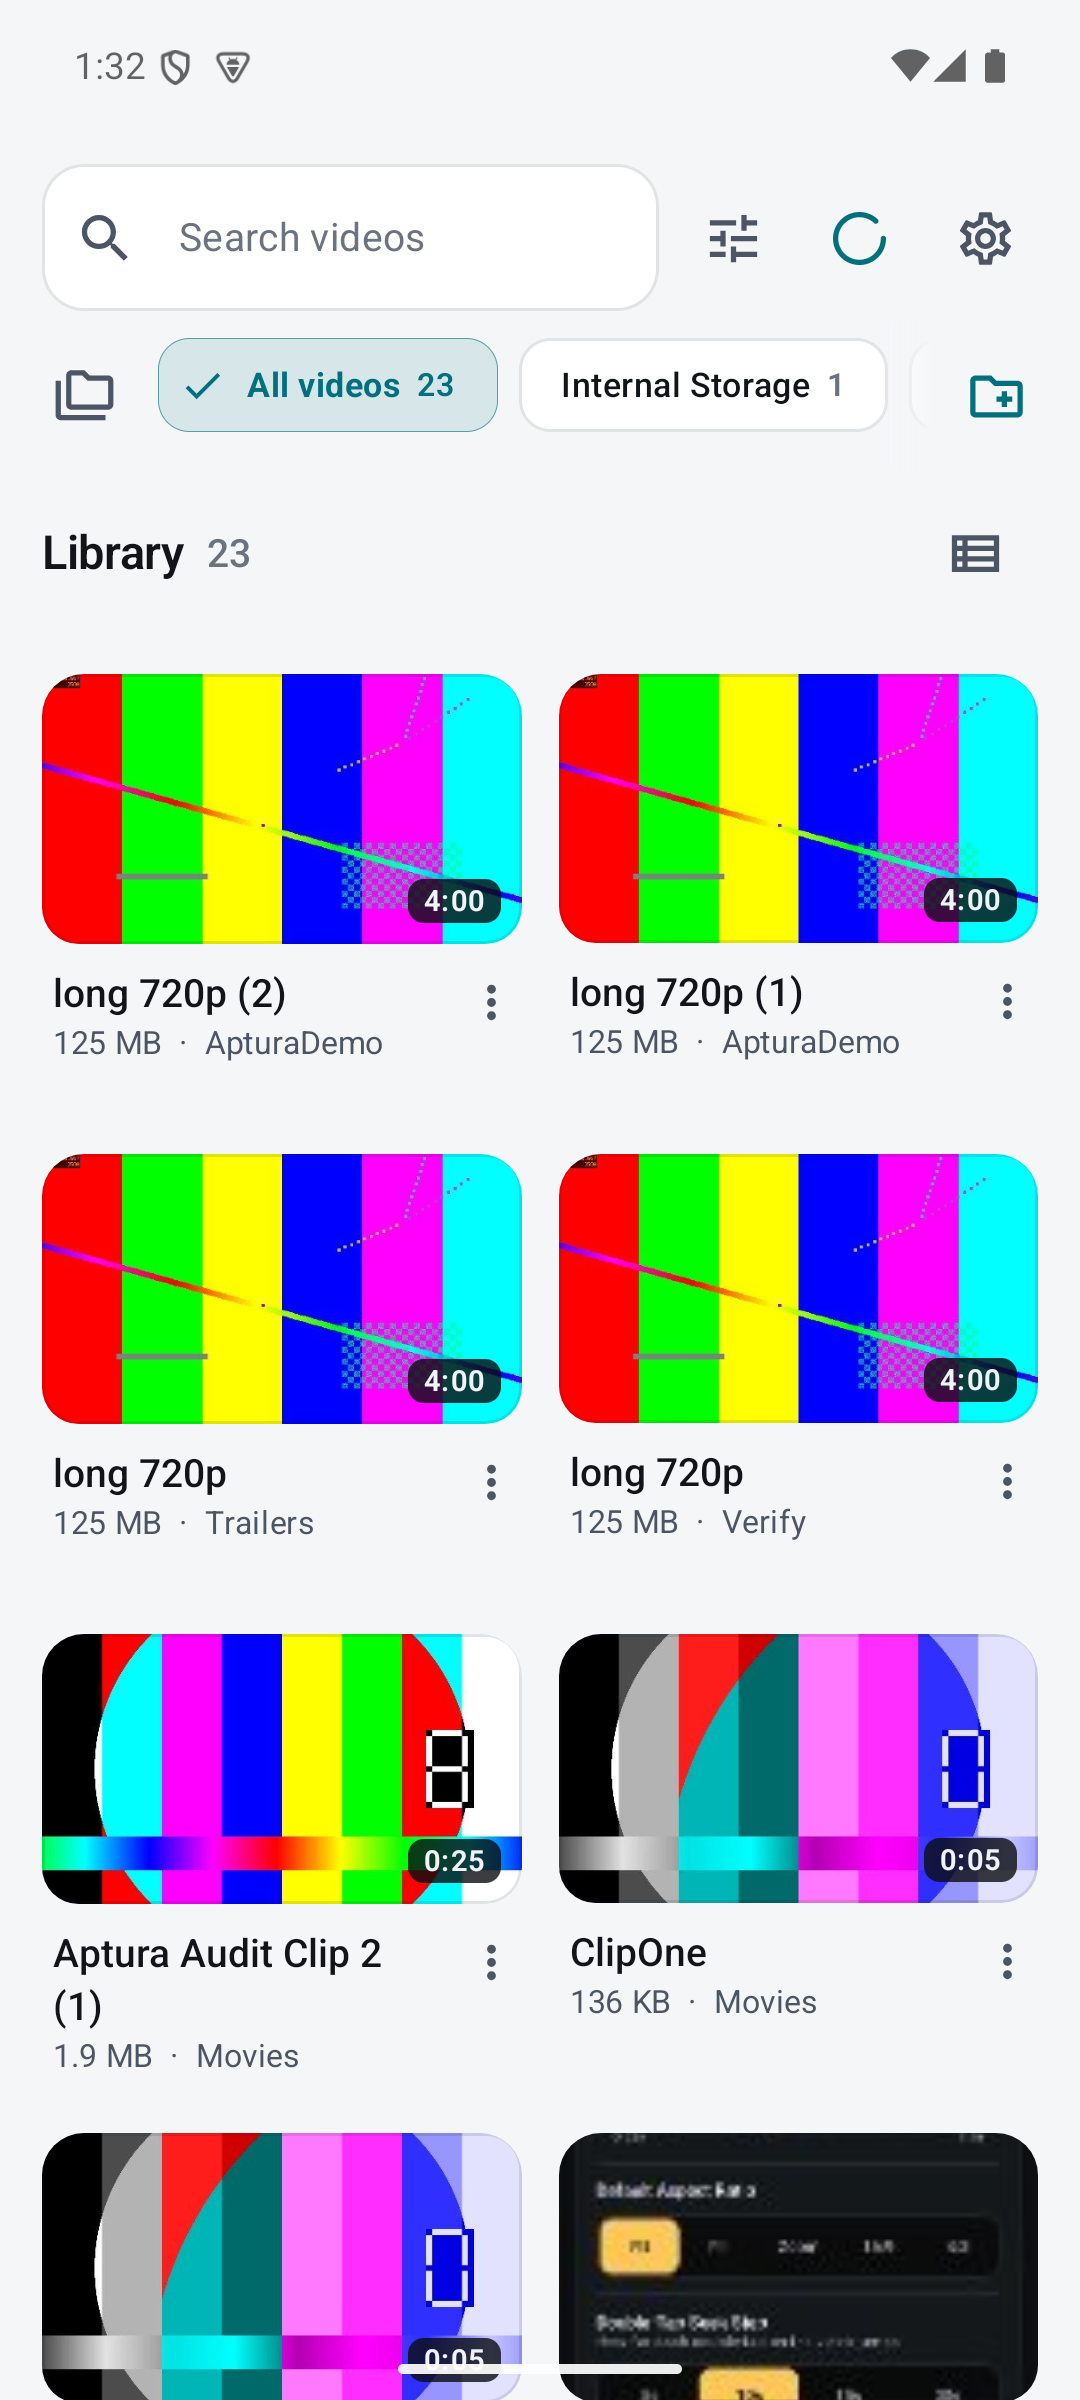
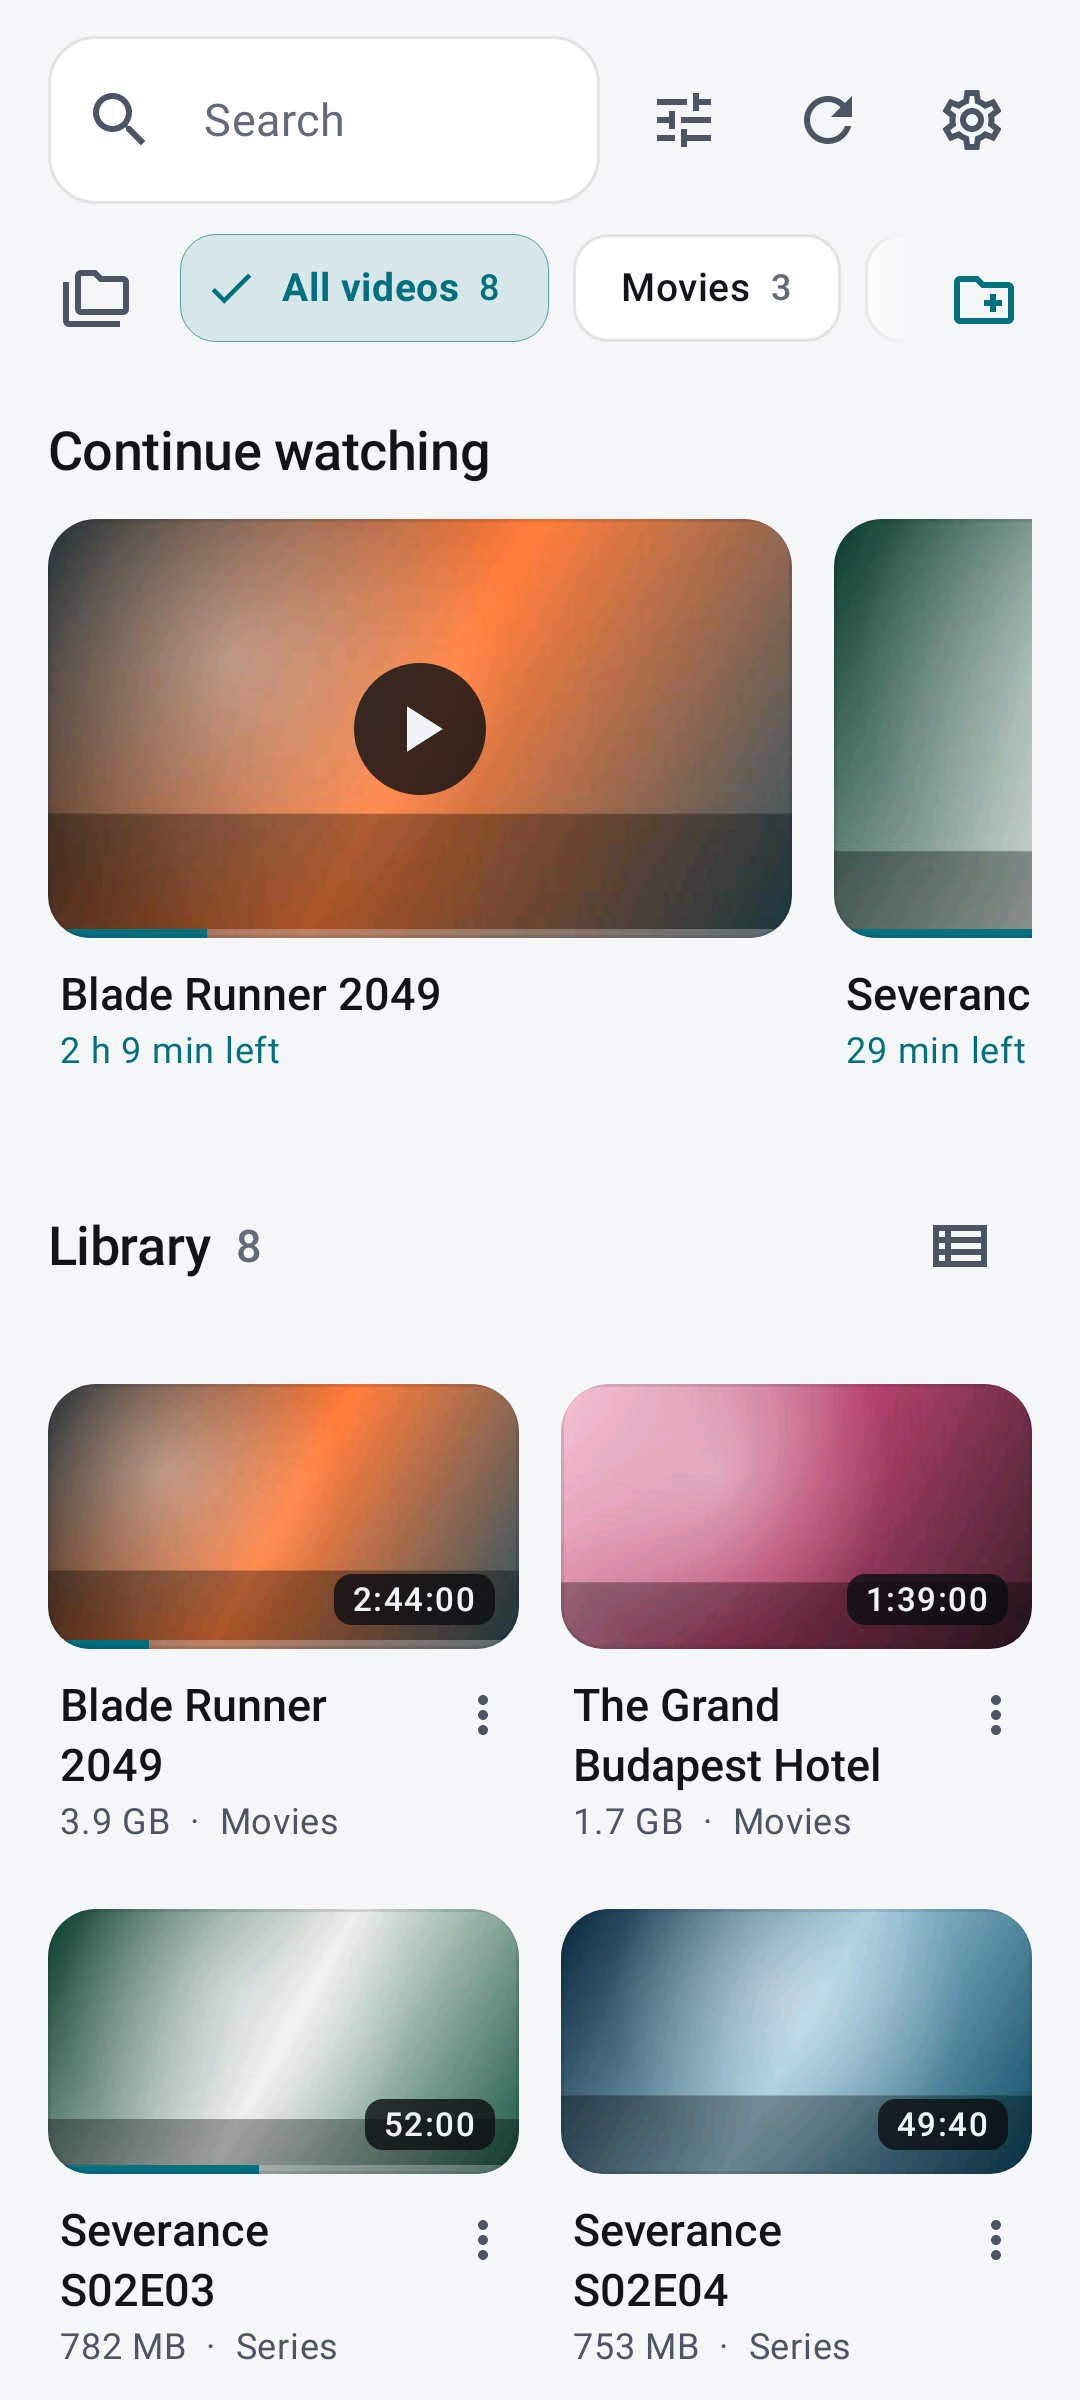
Refresh Play Store and documentation screenshots (PROD-02)
Assisted-by: Antigravity (Gemini)

Refs: #152

diff --git a/app/src/test/java/org/aptura/player/ui/visual/PlayStoreGalleryTest.kt b/app/src/test/java/org/aptura/player/ui/visual/PlayStoreGalleryTest.kt
@@ -1,0 +1,166 @@
+package org.aptura.player.ui.visual
+
+import android.os.SystemClock
+import org.aptura.player.data.settings.ApturaSettings
+import org.aptura.player.domain.model.AbRepeatState
+import org.aptura.player.domain.model.AudioEnhancementState
+import org.aptura.player.domain.model.Bookmark
+import org.aptura.player.domain.model.EqualizerBand
+import org.aptura.player.domain.repository.LibraryStatistics
+import org.aptura.player.theme.AccentColor
+import org.aptura.player.theme.ThemeMode
+import org.aptura.player.ui.library.MediaLibraryScreen
+import org.aptura.player.ui.onboarding.OnboardingScreen
+import org.aptura.player.ui.player.PlayerScreen
+import org.aptura.player.ui.player.PlayerSheet
+import org.aptura.player.ui.player.PlayerUiState
+import org.aptura.player.ui.player.TrackInfo
+import org.aptura.player.ui.settings.SettingsScreen
+import org.junit.Test
+import org.junit.runner.RunWith
+import org.robolectric.RobolectricTestRunner
+import org.robolectric.annotation.Config
+import org.robolectric.annotation.GraphicsMode
+
+private const val PLAY_STORE_PHONE = "w360dp-h800dp-xxhdpi"
+
+@RunWith(RobolectricTestRunner::class)
+@GraphicsMode(GraphicsMode.Mode.NATIVE)
+@Config(sdk = [34], qualifiers = PLAY_STORE_PHONE)
+class PlayStoreGalleryTest : GalleryBase() {
+
+    private val playerBase = PlayerUiState(
+        videoUri = "content://media/external/video/media/1",
+        videoTitle = "Blade Runner 2049",
+        durationMs = 9_840_000L,
+        currentPositionMs = 2_100_000L,
+        bufferedPositionMs = 2_600_000L,
+        isPlaying = true,
+        isControlsVisible = true,
+        hasNext = true,
+        hasPrevious = true,
+        audioTracks = listOf(
+            TrackInfo("a1", 0, "English · 5.1 · E-AC3", "en", isSelected = true),
+            TrackInfo("a2", 1, "English · Commentary · AAC", "en"),
+            TrackInfo("a3", 2, "Français · 5.1 · AC3", "fr")
+        ),
+        subtitleTracks = listOf(
+            TrackInfo("s1", 0, "English · SDH", "en", isSelected = true),
+            TrackInfo("s2", 1, "Español", "es"),
+            TrackInfo("s3", 2, "Blade.Runner.2049.en.srt", "en", isExternal = true)
+        ),
+        selectedAudioTrackIndex = 0,
+        selectedSubtitleTrackIndex = 0,
+        audioDelayMs = 150L,
+        subtitleDelayMs = -250L,
+        audioEnhancement = AudioEnhancementState(
+            enabled = true,
+            bassBoostPercent = 30,
+            bands = listOf(60, 230, 910, 3600, 14000).mapIndexed { i, f -> EqualizerBand(i, f, listOf(300, 150, 0, -100, 200)[i]) }
+        ),
+        sleepTimerEndsAtElapsedRealtime = SystemClock.elapsedRealtime() + 1_200_000L,
+        abRepeat = AbRepeatState(1_800_000L, 2_400_000L, true),
+        bookmarks = listOf(Bookmark(1L, "content://media/external/video/media/1", 1_250_000L, "Opening shot")),
+        nextItemTitle = "Arrival",
+        nextItemDurationMs = 6_960_000L,
+        nextItemUri = "content://media/external/video/media/2",
+        queueItems = emptyList(),
+        currentQueueIndex = 0
+    )
+
+    private fun renderPlayer(state: PlayerUiState, accent: AccentColor = AccentColor.CYAN) = themed(ThemeMode.DARK, accent) {
+        PlayerScreen(
+            uiState = state,
+            player = null,
+            onBackClick = {},
+            onPlayPauseClick = {},
+            onSeekRelative = {},
+            onScrubStart = {},
+            onScrubMove = {},
+            onScrubEnd = {},
+            onControlsVisibilityToggle = {},
+            onLockToggle = {},
+            onSpeedSelected = {},
+            onResizeModeToggle = {},
+            onSpeedSheetVisible = {},
+            onAudioSheetVisible = {},
+            onSubtitleSheetVisible = {},
+            onAudioTrackSelected = {},
+            onSubtitleTrackSelected = {},
+            onVolumePercentChanged = {},
+            onBrightnessPercentChanged = {},
+            onRetryPlayback = {}
+        )
+    }
+
+    @Test
+    fun store01LibraryHome() {
+        themed(ThemeMode.LIGHT) {
+            MediaLibraryScreen(
+                uiState = librarySuccess(),
+                onVideoClick = { _, _ -> },
+                onSearchQueryChanged = {},
+                onFolderSelected = {},
+                onSortOrderChanged = {},
+                onRefresh = {}
+            )
+        }
+        shoot("play_store_01_library_home")
+    }
+
+    @Test
+    fun store02PlayerPlayback() {
+        renderPlayer(playerBase.copy(queueItems = sampleItems.take(5)), AccentColor.GOLD)
+        shoot("play_store_02_player_playback")
+    }
+
+    @Test
+    fun store03AudioSyncSheet() {
+        renderPlayer(playerBase.copy(queueItems = sampleItems.take(5), activeSheet = PlayerSheet.Audio))
+        shoot("play_store_03_audio_sync_sheet")
+    }
+
+    @Test
+    fun store04DarkGoldSettings() {
+        themed(ThemeMode.DARK, AccentColor.GOLD) {
+            SettingsScreen(
+                settings = ApturaSettings(
+                    themeMode = ThemeMode.DARK,
+                    accentColor = AccentColor.GOLD,
+                    persistedSafFolders = setOf("content://com.android.externalstorage.documents/tree/primary%3AMovies")
+                ),
+                libraryStats = LibraryStatistics(totalVideos = 8, totalDurationMs = 33_802_000, totalSizeBytes = 14_400_000_000),
+                onBackClick = {},
+                onUpdateSpeed = {},
+                onUpdateResizeMode = {},
+                onUpdateSeekDelta = {},
+                onUpdateBackgroundAudio = {},
+                onUpdateAutoAdvanceCountdown = {},
+                onRescanClick = {},
+                onReplayOnboardingClick = {},
+                hiddenVideoCount = 2,
+                missingVideoCount = 1
+            )
+        }
+        shoot("play_store_04_dark_gold_settings")
+    }
+
+    @Test
+    fun store05SubtitlesSheet() {
+        renderPlayer(playerBase.copy(queueItems = sampleItems.take(5), activeSheet = PlayerSheet.Subtitle))
+        shoot("play_store_05_subtitles_sheet")
+    }
+
+    @Test
+    fun store06PrivacyOnboarding() {
+        themed(ThemeMode.LIGHT) {
+            OnboardingScreen(
+                onRequestPermissionClick = {},
+                onContinueWithoutPermissionClick = {},
+                hasStorageAccess = false,
+                animateDemos = false
+            )
+        }
+        shoot("play_store_06_privacy_onboarding")
+    }
+}

diff --git a/docs/audits/CURRENT_AUDIT.md b/docs/audits/CURRENT_AUDIT.md
@@ -57,6 +57,7 @@ What is still open after the work recorded in the Progress table, in one place. 
 | A11Y-05 | System caption preferences verification on physical device across diverse accessibility caption styles | A phone |
 | PROD-G12 | Subtitle character set encoding overrides on physical device across legacy non-UTF8 media files | A phone |
 | A11Y-02 | Hardware keyboard and D-pad remote pass on physical Android tablet / Chromebook | A tablet or Chromebook |
+| PROD-02 | Human visual review of refreshed Play Store phone/tablet screenshots before store submission | The owner |
 
 When a PR closes an open part, delete its line here in the same PR, and add a line for any part it leaves open.
 
@@ -127,6 +128,7 @@ When a PR closes an open part, delete its line here in the same PR, and add a li
 | QA-06 | Done in code and tests. Added `androidx.room:room-testing` (`testImplementation`), configured `debug` and `androidTest` schema assets directories in `app/build.gradle.kts` (so release builds remain clean while Robolectric `MigrationTestHelper` validates schemas on every run), and added `ApturaDatabaseSchemaValidationTest` validating committed schemas `5.json`, `6.json`, and `7.json` across `MIGRATION_5_6` (`decoderOverridden` backfill), `MIGRATION_6_7` (`index_media_items_uri`), chained `5 -> latest`, every `5..APTURA_DB_VERSION` schema upgrade via `MigrationTestHelper.runMigrationsAndValidate`, plus pre-schema-export `2 -> latest` SQL upgrade execution. `ApturaDatabaseMigrationTest` also asserts every schema version from 5 to `APTURA_DB_VERSION` is exported and committed. | This PR | `ApturaDatabaseSchemaValidationTest` (5 tests), `ApturaDatabaseMigrationTest` (2 tests), `ApturaDatabaseRealSqlTest`, and `DatabaseScaleTest`. |
 | DEV-01 | Done. Removed the `AarMetadata` check bypass from `app/build.gradle.kts` so `checkDebugAarMetadata` and `checkReleaseAarMetadata` run on every build. Updated `compileSdk` to `release(37) { minorApiLevel = 0 }` (targeting Android SDK Platform `37.0`), bumped `androidGradlePlugin` to `9.1.0` in `gradle/libs.versions.toml` (required by `androidx.compose.material3.adaptive:1.3.0`), and updated Gradle wrapper to `9.3.1` with verified SHA-256 checksum. | This PR | `checkDebugAarMetadata`, `checkReleaseAarMetadata`, and full `.\tools\gate.ps1` (unit tests, lint, release build + invariants) pass with AAR metadata checks enabled. |
 | ISSUE-016 | Done. Removed unused `deleteRemovedVideos(existingMediaStoreIds: List<Long>)` query from `MediaItemDao` and its fake implementation in `MediaRepositoryTest`. | This PR | `.\tools\gate.ps1` (full unit test suite, lint, release build + invariants). |
+| PROD-02 | Refreshed in repo, awaits owner visual sign-off. Replaced all 6 `distribution/play-store/phone-screenshots/` (`1080x2400`) and both `distribution/play-store/tablet-screenshots/` (`2560x1600`) plus updated `docs/assets/screenshots/` renders using reproducible demo-content Compose captures (`PlayStoreGalleryTest`, `SettingsGalleryTest`, `LibraryGalleryTest`, `PlayerGalleryTest`). Removed obsolete `05_supporter_gold_unlocked.png` (pre-PROD-01 locked Gold toggle + toast) in favor of `05_subtitles_sheet.png`; eliminated test color bars, debug status-bar icons, old `"Footprint"` copy, and old Gold lock icons across phone and tablet store assets. `feature-graphic-1024x500.png` had already been clean of mojibake. | This PR | `PlayStoreGalleryTest` + gallery suite renders visually inspected across all `1080x2400` phone and `2560x1600` tablet PNGs; `.\tools\gate.ps1`. |
 
 ## Executive summary
 
